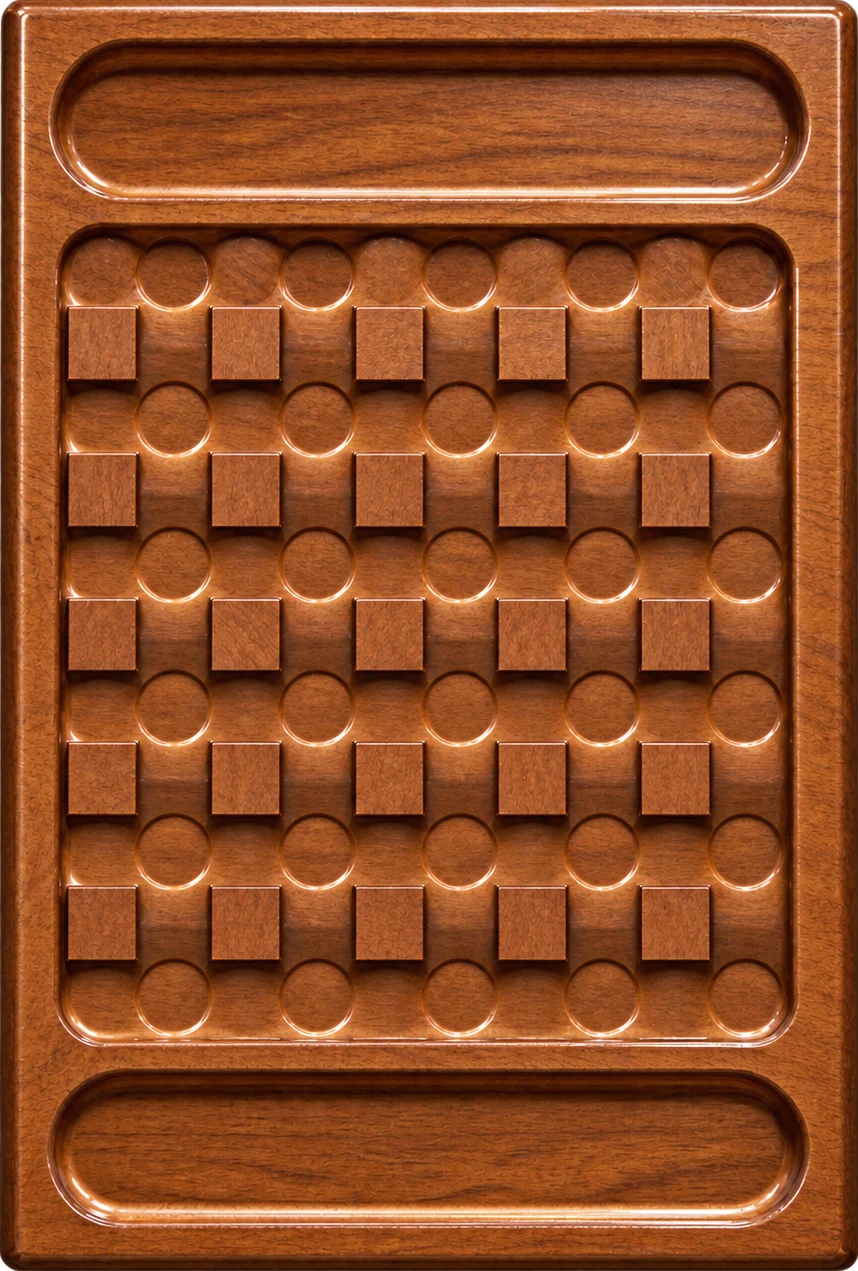
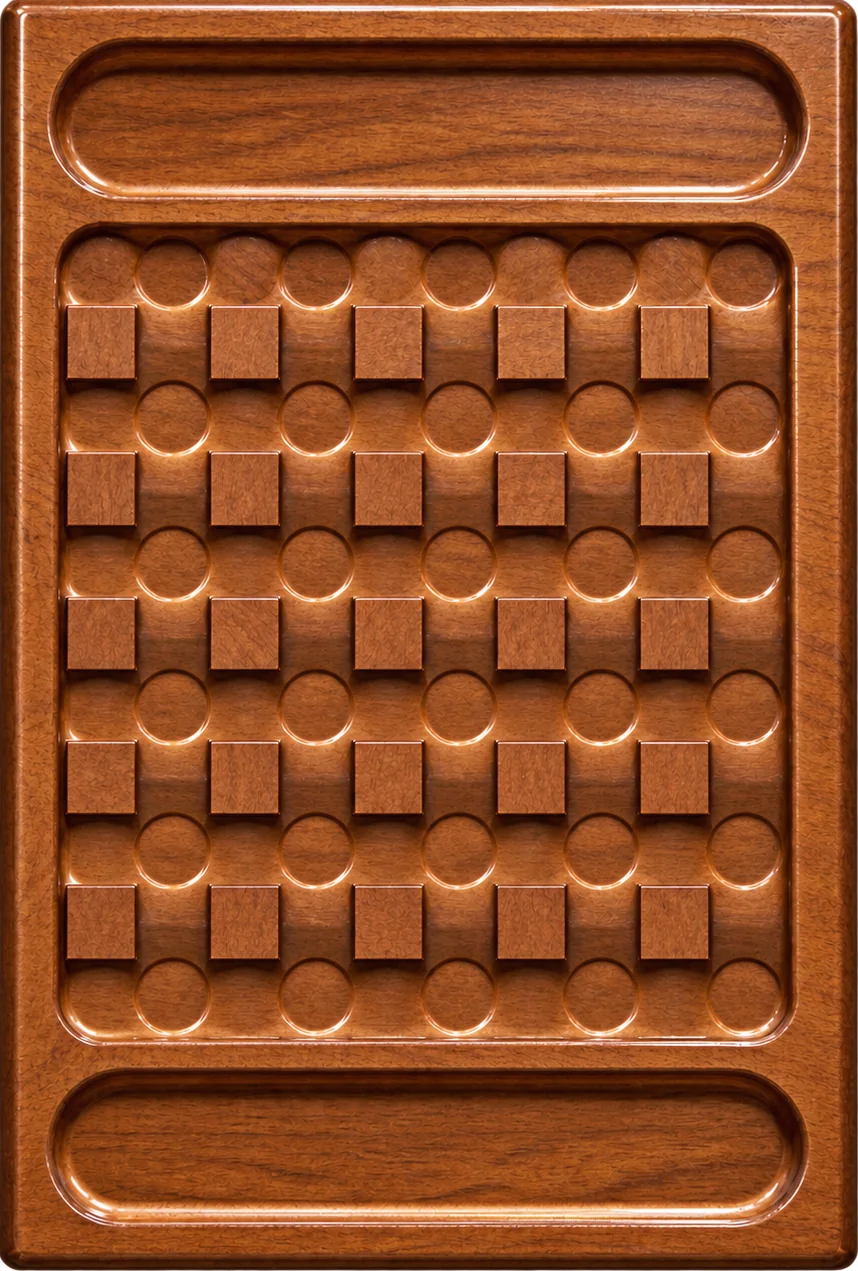
Fix alternate Yote board alignment

diff --git a/app/src/main/kotlin/com/mkdev/mkboardgames/ui/YoteBoardView.kt b/app/src/main/kotlin/com/mkdev/mkboardgames/ui/YoteBoardView.kt
@@ -53,11 +53,12 @@ enum class YoteCarvedStyle(
         label = "Carved Reservoir II",
         sourceRect = Rect(0, 0, 858, 1271),
         pocketCenters = arrayOf(
-            floatArrayOf(270f, 394f, 270f, 532f, 270f, 680f, 270f, 820f, 270f, 965f, 270f, 1105f),
-            floatArrayOf(417f, 394f, 417f, 532f, 417f, 680f, 417f, 820f, 417f, 965f, 417f, 1105f),
-            floatArrayOf(557f, 394f, 557f, 532f, 557f, 680f, 557f, 820f, 557f, 965f, 557f, 1105f),
-            floatArrayOf(699f, 394f, 699f, 532f, 699f, 680f, 699f, 820f, 699f, 965f, 699f, 1105f),
-            floatArrayOf(838f, 394f, 838f, 532f, 838f, 680f, 838f, 820f, 838f, 965f, 838f, 1105f),
+            floatArrayOf(168f, 280f, 315f, 280f, 455f, 280f, 597f, 280f, 736f, 280f),
+            floatArrayOf(168f, 418f, 315f, 418f, 455f, 418f, 597f, 418f, 736f, 418f),
+            floatArrayOf(168f, 566f, 315f, 566f, 455f, 566f, 597f, 566f, 736f, 566f),
+            floatArrayOf(168f, 706f, 315f, 706f, 455f, 706f, 597f, 706f, 736f, 706f),
+            floatArrayOf(168f, 851f, 315f, 851f, 455f, 851f, 597f, 851f, 736f, 851f),
+            floatArrayOf(168f, 991f, 315f, 991f, 455f, 991f, 597f, 991f, 736f, 991f),
         ),
         pocketStepX = 142f,
         pocketStepY = 142f,
